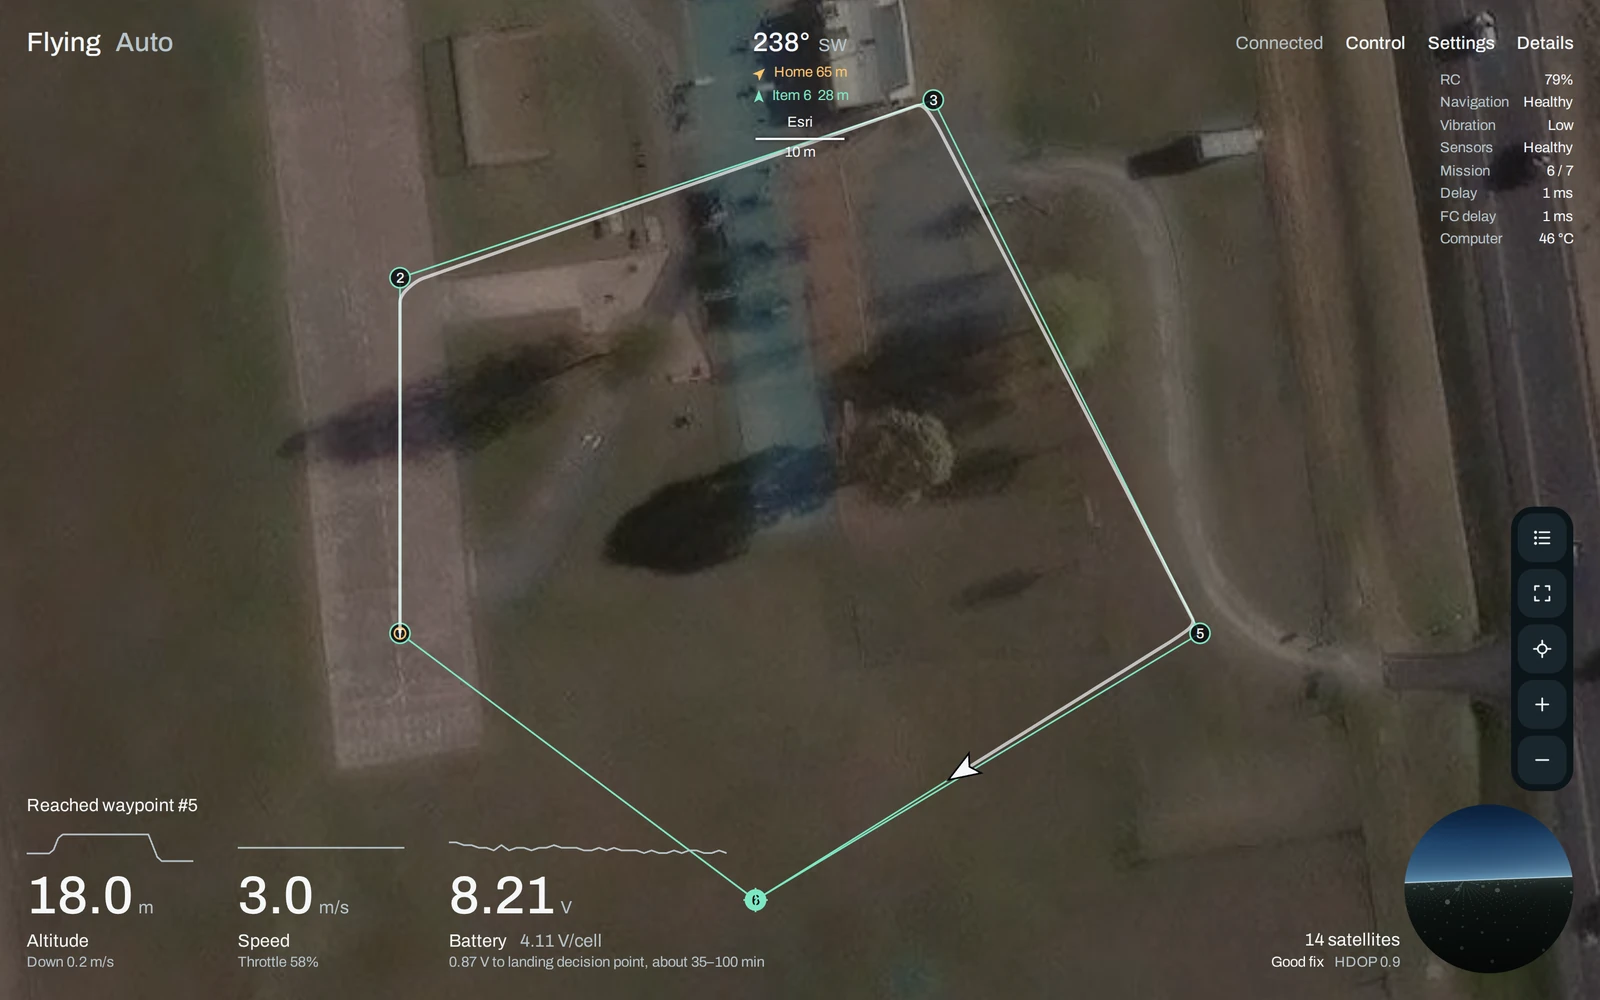
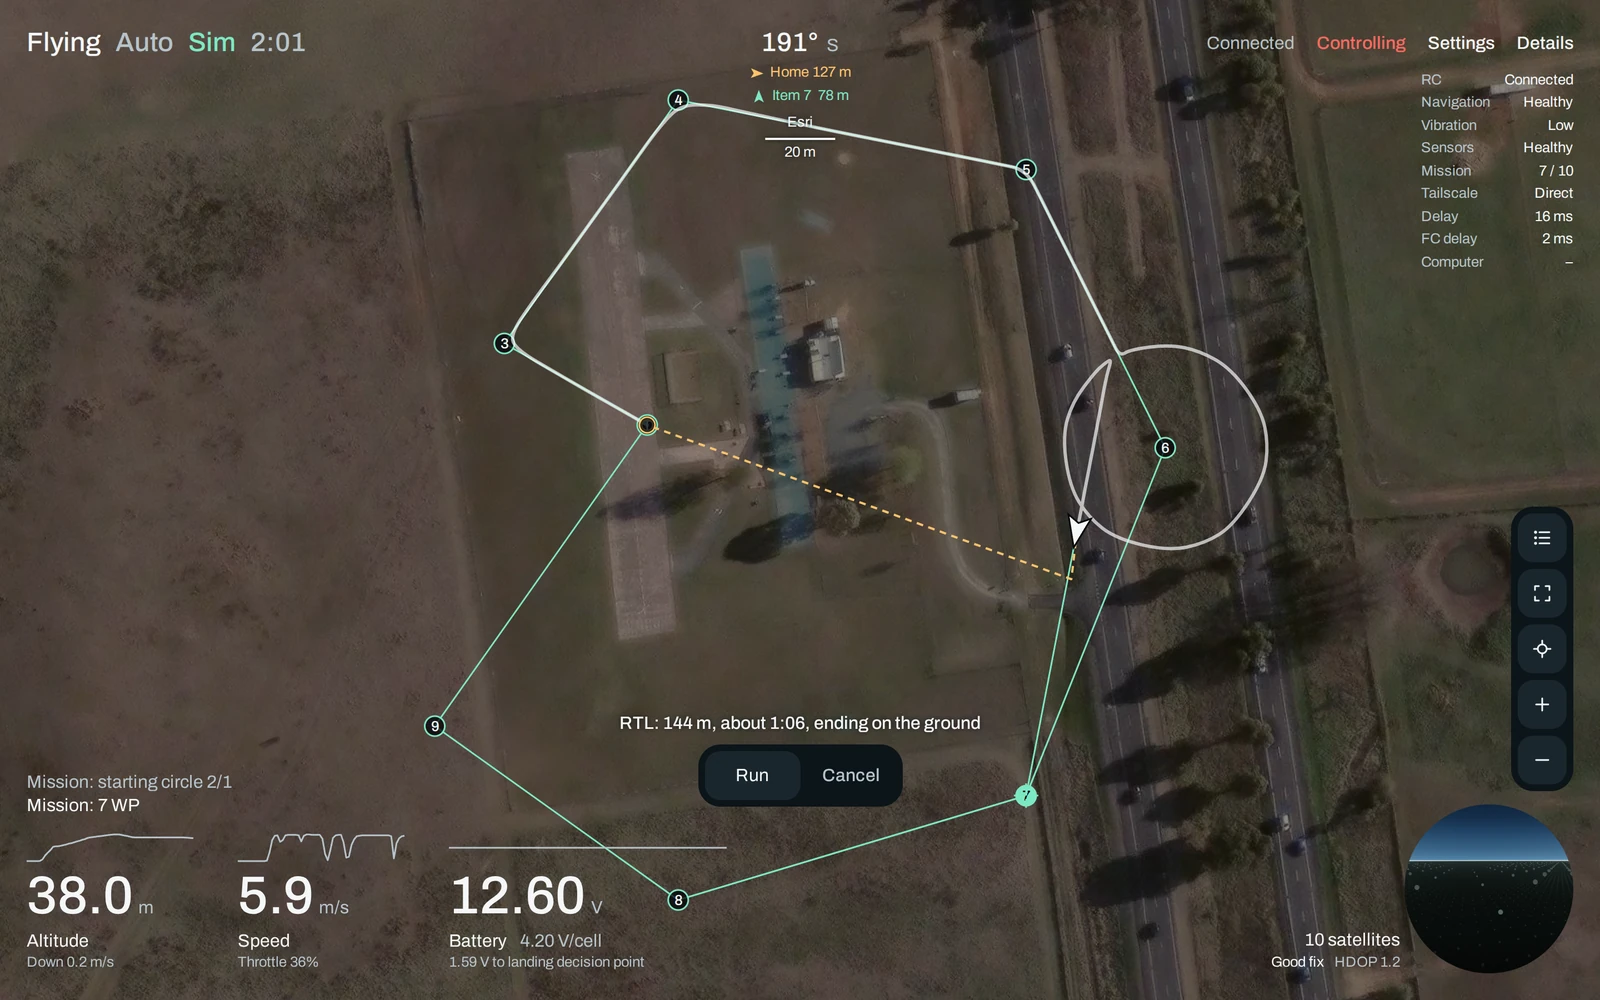
Show the real simulator in the README pictures
The pictures at the top of the READMEs now come from ArduCopter 4.7.1
in its simulator, read by a DroneStats installed from nothing with
install.sh --sitl, in place of the pretend flight controller: the whole
mission from behind and above under a low sun, the view from the
aircraft banked in a circle, and the map with the way home shown before
it is sent.

diff --git a/README.zh-CN.md b/README.zh-CN.md
@@ -5,11 +5,14 @@
 一个运行在机载电脑上的 ArduPilot 多旋翼实时 MAVLink 仪表盘，用任意浏览器打开。它用观看者的 GPU 绘制机上视角或机后视角的 3D 场景，并显示卫星地图、飞控中存储的任务、围栏和集结点、电池预测、链路质量以及飞控自身的检查结果。默认只读；观看者开启执行后，可以在地图上直接下达指令：飞往、降落、返航、执行任务。每条指令发送前，先在主页面上显示它将飞行的路线。界面支持中文和英文。
 
 <p align="center">
-  <img src="docs/screenshots/third-person-zh.webp" width="49%" alt="执行任务时，从飞行器后上方看的 3D 视图">
-  <img src="docs/screenshots/mission-map-zh.webp" width="49%" alt="同一时刻的卫星地图：任务航线、已飞轨迹和飞行器">
+  <img src="docs/screenshots/third-person-zh.webp" width="100%" alt="从后上方看的 3D 视图：任务航线、已飞轨迹和飞行器，远处是落日">
+</p>
+<p align="center">
+  <img src="docs/screenshots/first-person-zh.webp" width="49%" alt="机上视角：绕圈时压着坡度，准星上是每个电机的输出">
+  <img src="docs/screenshots/mission-map-zh.webp" width="49%" alt="地图：任务航线、已飞轨迹，以及发送前先显示的返航路线">
 </p>
 
-上图为 `tools/fake_fc.py` 中的模拟飞控在 ArduPilot 默认模拟地点执行示例任务时，机后视角和地图上的样子。
+上图为 ArduCopter 4.7.1 在其模拟器中执行任务的画面，地点是 ArduPilot 默认的模拟位置，天空是那里傍晚的样子，页面上标有“模拟”。依次是：从后上方看；机上视角，绕圈时压着坡度；地图上，返航路线在发送前先显示出来。
 
 > **安全提示**：开启执行后，本软件会控制一架真实的飞行器：它能解锁、飞行，也能在空中停桨。只在出错也不会伤到人的地方飞行，并始终手持能随时接管的遥控器。任何改动都应先用 SITL（`tools/sitl_check.py`）验证再上机。本软件不提供任何担保，见 `LICENSE`。
 

diff --git a/README.md b/README.md
@@ -10,12 +10,16 @@ through the map: fly here, land here, return, a mission, each shown on the main 
 go before it is sent. Chinese and English.
 
 <p align="center">
-  <img src="docs/screenshots/third-person-en.webp" width="49%" alt="The 3D view from behind and above the aircraft as it flies a mission">
-  <img src="docs/screenshots/mission-map-en.webp" width="49%" alt="The same moment on the satellite map: the mission, the path flown and the aircraft">
+  <img src="docs/screenshots/third-person-en.webp" width="100%" alt="The 3D view from behind and above: the mission, the way flown so far and the aircraft, under a low sun">
+</p>
+<p align="center">
+  <img src="docs/screenshots/first-person-en.webp" width="49%" alt="The view from the aircraft, banked in a circle, with each motor's output on the sight">
+  <img src="docs/screenshots/mission-map-en.webp" width="49%" alt="The map: the mission, the way flown, and the way home as it would go, before it is sent">
 </p>
 
-Above: the pretend flight controller in `tools/fake_fc.py` flying its sample mission over ArduPilot's
-default simulator location, from behind the aircraft and on the map.
+Above: ArduCopter 4.7.1 in its simulator, flying a mission over ArduPilot's default simulator location
+under that place's own evening sky, which the page says with "Sim". From behind and above; from the
+aircraft, banked in a circle; and on the map, with the way home shown before it is sent.
 
 > **Safety.** With execution on, this software commands a real aircraft: it can arm it, fly it, and stop
 > its motors in the air. Fly only where a mistake would hurt no one, with a transmitter in hand that can
